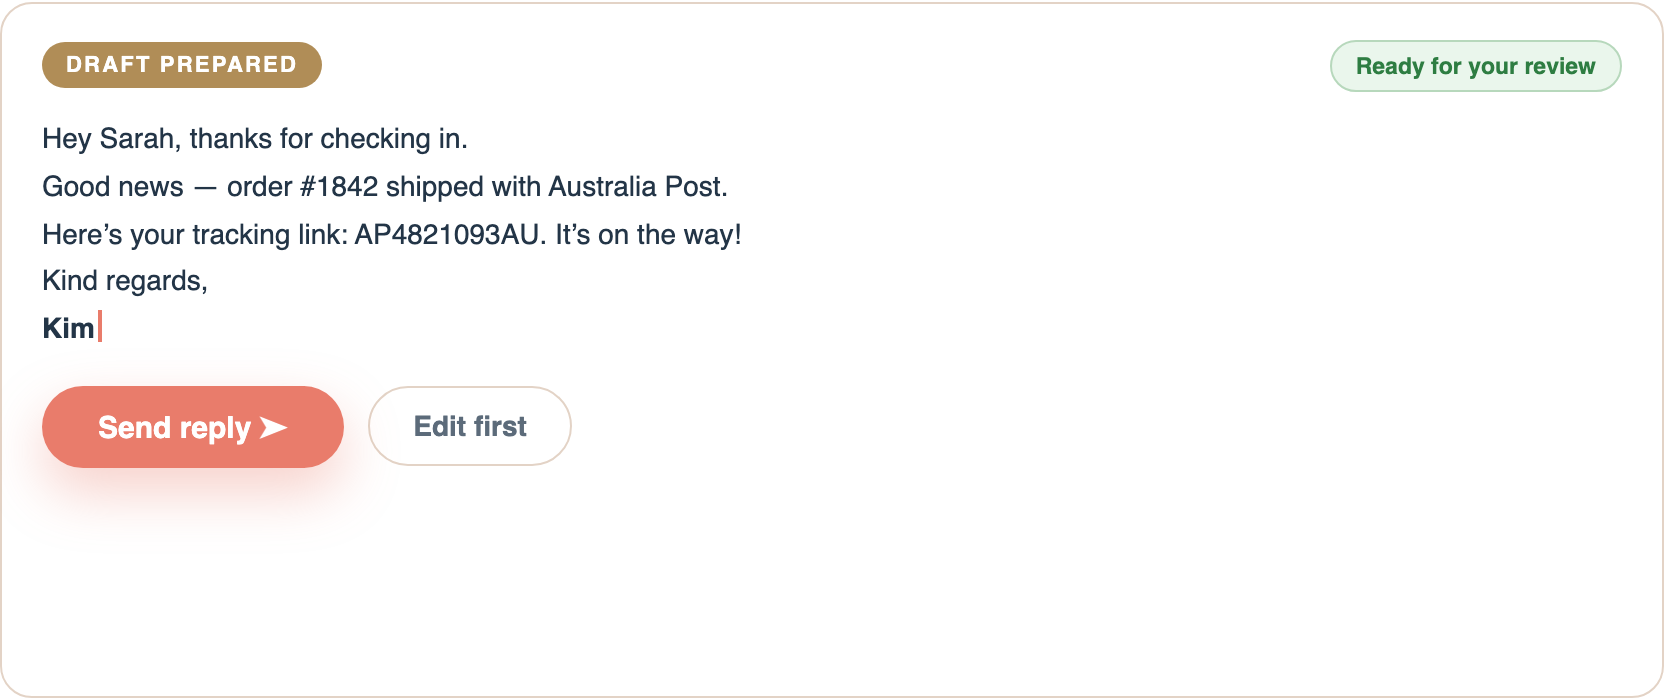
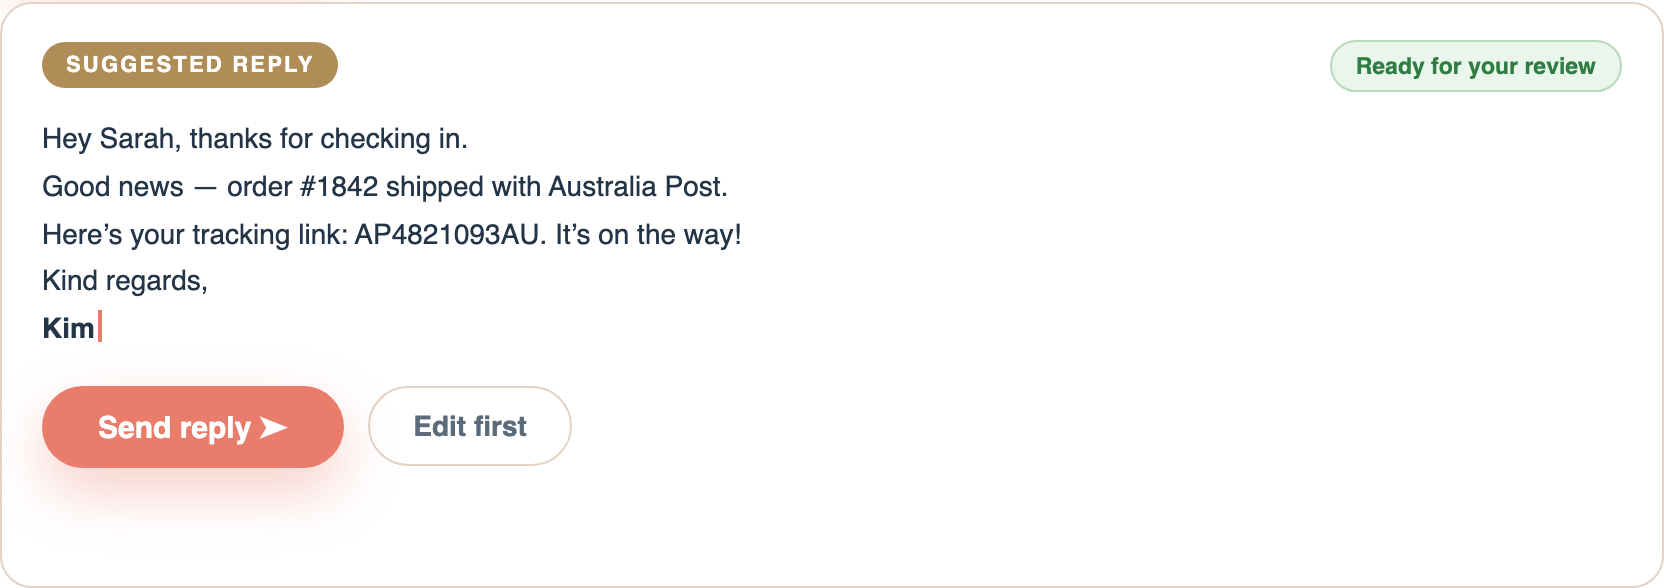
Show merchant-initiated Suggest reply step in hero loop video, step images, and copy

diff --git a/media-src/hero-loop/hero-loop.html b/media-src/hero-loop/hero-loop.html
@@ -187,6 +187,35 @@
   .spark { display: inline-block; animation: sparkle 1.6s ease-in-out infinite; }
   @keyframes sparkle { 0%,100% { transform: scale(1); } 50% { transform: scale(1.25); } }
 
+  /* Suggest reply button — the merchant's click */
+  .suggestwrap {
+    display: flex; align-items: center; gap: 12px;
+    opacity: 0;
+    animation: fadeUp 0.45s ease 2.9s forwards, fadeOutBtn 0.35s ease 4.0s forwards;
+  }
+  .suggestbtn {
+    display: inline-flex; align-items: center; gap: 9px;
+    font-size: 15px; font-weight: 800; color: #fff;
+    background: var(--coral);
+    border-radius: 999px;
+    padding: 12px 26px;
+    box-shadow: 0 12px 28px rgba(233,124,107,0.35);
+    animation: press 0.35s ease 3.55s;
+  }
+  .suggesthint {
+    font-size: 13px; font-weight: 700; color: var(--slate);
+  }
+  .cursor {
+    position: absolute;
+    width: 22px; height: 22px;
+    left: 118px; top: 0;
+    opacity: 0;
+    animation: cursorIn 0.7s ease 3.0s forwards, fadeOutBtn 0.3s ease 4.0s forwards;
+    z-index: 5;
+  }
+  @keyframes cursorIn { from { opacity: 0; transform: translate(60px, 50px); } to { opacity: 1; transform: translate(0, 0); } }
+  @keyframes fadeOutBtn { to { opacity: 0; visibility: hidden; height: 0; margin: 0; } }
+
   /* Draft card */
   .draftcard {
     flex: 1;
@@ -196,7 +225,7 @@
     padding: 18px 20px;
     position: relative;
     opacity: 0;
-    animation: fadeUp 0.5s ease 3.0s forwards;
+    animation: fadeUp 0.5s ease 4.3s forwards;
   }
   .drafthead { display: flex; align-items: center; justify-content: space-between; margin-bottom: 12px; }
   .draftbadge {
@@ -210,21 +239,21 @@
     border: 1px solid var(--green-line);
     padding: 5px 12px; border-radius: 999px;
     opacity: 0;
-    animation: fadeUp 0.4s ease 5.6s forwards;
+    animation: fadeUp 0.4s ease 7.3s forwards;
   }
 
   /* Typing text */
   .typeline { font-size: 14px; line-height: 1.7; color: var(--ink); overflow: hidden; white-space: nowrap; max-width: 0; }
-  .t1 { animation: typew 0.7s steps(30) 3.4s forwards; }
-  .t2 { animation: typew 1.1s steps(60) 4.1s forwards; }
-  .t3 { animation: typew 1.0s steps(55) 5.2s forwards; }
-  .typesign { font-size: 14px; line-height: 1.7; opacity: 0; animation: fadeUp 0.3s ease 5.9s forwards; }
+  .t1 { animation: typew 0.7s steps(30) 4.7s forwards; }
+  .t2 { animation: typew 1.1s steps(60) 5.4s forwards; }
+  .t3 { animation: typew 1.0s steps(55) 6.5s forwards; }
+  .typesign { font-size: 14px; line-height: 1.7; opacity: 0; animation: fadeUp 0.3s ease 7.2s forwards; }
   @keyframes typew { to { max-width: 100%; } }
 
   .caret {
     display: inline-block; width: 2px; height: 16px; background: var(--coral);
     vertical-align: -2px; margin-left: 2px;
-    animation: blink 0.7s step-end 3.4s 4, hide 0.1s linear 6.2s forwards;
+    animation: blink 0.7s step-end 4.7s 4, hide 0.1s linear 7.5s forwards;
   }
   @keyframes blink { 50% { opacity: 0; } }
   @keyframes hide { to { opacity: 0; } }
@@ -240,7 +269,7 @@
     box-shadow: 0 12px 28px rgba(233,124,107,0.35);
     position: relative;
     opacity: 0;
-    animation: fadeUp 0.4s ease 5.9s forwards, press 0.35s ease 6.9s;
+    animation: fadeUp 0.4s ease 7.5s forwards, press 0.35s ease 8.6s;
   }
   @keyframes press { 40% { transform: scale(0.94); } 100% { transform: scale(1); } }
   .editbtn {
@@ -248,7 +277,7 @@
     border: 1px solid var(--line2); border-radius: 999px;
     padding: 11px 22px; background: #fff;
     opacity: 0;
-    animation: fadeUp 0.4s ease 6.0s forwards;
+    animation: fadeUp 0.4s ease 7.6s forwards;
   }
 
   /* Sent confirmation overlay */
@@ -259,7 +288,7 @@
     border-radius: 16px;
     opacity: 0;
     pointer-events: none;
-    animation: fadeIn 0.35s ease 7.15s forwards;
+    animation: fadeIn 0.35s ease 8.95s forwards;
   }
   .senttick {
     width: 64px; height: 64px; border-radius: 50%;
@@ -269,7 +298,7 @@
   .senttick svg { stroke: var(--green); }
   .senttick svg path {
     stroke-dasharray: 30; stroke-dashoffset: 30;
-    animation: draw 0.45s ease 7.35s forwards;
+    animation: draw 0.45s ease 9.15s forwards;
   }
   @keyframes draw { to { stroke-dashoffset: 0; } }
   .sentmsg { font-size: 19px; font-weight: 800; }
@@ -360,9 +389,15 @@
           <div class="ordercell"><div class="k">Tracking</div><div class="v">AP4821093AU</div></div>
         </div>
 
+        <div class="suggestwrap" style="position:relative;">
+          <span class="suggestbtn">✦ Suggest reply</span>
+          <span class="suggesthint">You ask for the draft — it never writes without you</span>
+          <svg class="cursor" viewBox="0 0 24 24" fill="#233547" stroke="#fff" stroke-width="1.5"><path d="M5 3l14 8-6.5 1.5L9 19z"/></svg>
+        </div>
+
         <div class="draftcard">
           <div class="drafthead">
-            <span class="draftbadge">Draft prepared</span>
+            <span class="draftbadge">Suggested reply</span>
             <span class="readybadge">Ready for your review</span>
           </div>
           <div class="typeline t1">Hey Sarah, thanks for checking in.</div>

diff --git a/media-src/hero-loop/step-base.html b/media-src/hero-loop/step-base.html
@@ -187,6 +187,35 @@
   .spark { display: inline-block; opacity:1; }
   @keyframes sparkle { 0%,100% { transform: scale(1); } 50% { transform: scale(1.25); } }
 
+  /* Suggest reply button — the merchant's click */
+  .suggestwrap {
+    display: flex; align-items: center; gap: 12px;
+    opacity:1;
+    opacity:1;
+  }
+  .suggestbtn {
+    display: inline-flex; align-items: center; gap: 9px;
+    font-size: 15px; font-weight: 800; color: #fff;
+    background: var(--coral);
+    border-radius: 999px;
+    padding: 12px 26px;
+    box-shadow: 0 12px 28px rgba(233,124,107,0.35);
+    opacity:1;
+  }
+  .suggesthint {
+    font-size: 13px; font-weight: 700; color: var(--slate);
+  }
+  .cursor {
+    position: absolute;
+    width: 22px; height: 22px;
+    left: 118px; top: 0;
+    opacity:1;
+    opacity:1;
+    z-index: 5;
+  }
+  @keyframes cursorIn { from { opacity:1; transform: translate(60px, 50px); } to { opacity: 1; transform: translate(0, 0); } }
+  @keyframes fadeOutBtn { to { opacity:1; visibility: hidden; height: 0; margin: 0; } }
+
   /* Draft card */
   .draftcard {
     flex: 1;
@@ -360,9 +389,15 @@
           <div class="ordercell"><div class="k">Tracking</div><div class="v">AP4821093AU</div></div>
         </div>
 
+        <div class="suggestwrap" style="position:relative;">
+          <span class="suggestbtn">✦ Suggest reply</span>
+          <span class="suggesthint">You ask for the draft — it never writes without you</span>
+          <svg style="display:none" class="cursor" viewBox="0 0 24 24" fill="#233547" stroke="#fff" stroke-width="1.5"><path d="M5 3l14 8-6.5 1.5L9 19z"/></svg>
+        </div>
+
         <div class="draftcard">
           <div class="drafthead">
-            <span class="draftbadge">Draft prepared</span>
+            <span class="draftbadge">Suggested reply</span>
             <span class="readybadge">Ready for your review</span>
           </div>
           <div class="typeline t1">Hey Sarah, thanks for checking in.</div>

diff --git a/src/components/sections/Hero.tsx b/src/components/sections/Hero.tsx
@@ -5,10 +5,10 @@ import { SHOPIFY_APP_STORE_INSTALL_URL } from "@/lib/shopify-install";
 import Link from "next/link";
 
 const workflowPoints = [
-  "Triage the inbox",
-  "Pull Shopify context",
-  "Draft for review",
-  "You approve and send",
+  "Kim sorts the inbox",
+  "Order context attached",
+  "Click Suggest reply",
+  "You review and send",
 ];
 
 export default function Hero() {
@@ -18,14 +18,14 @@ export default function Hero() {
         <FadeIn className="mx-auto max-w-5xl text-center">
           <div className="mx-auto max-w-4xl pt-12 md:pt-28">
             <h1 className="mx-auto max-w-[22rem] font-display text-3xl font-extrabold leading-[1.08] tracking-normal text-ink sm:max-w-3xl sm:text-5xl md:text-7xl">
-              Your support inbox, already answered.
+              Your support inbox, answered in one click.
             </h1>
             <div className="mx-auto mt-6 flex flex-wrap items-center justify-center gap-3">
               <span className="inline-flex max-w-full items-center gap-2 rounded-full border border-[#E3D3C6] bg-white/80 px-4 py-2 text-xs font-bold uppercase tracking-[0.08em] text-[#8A6F61] shadow-sm backdrop-blur dark:border-slate/15 dark:bg-[#1D2840]/80 dark:text-brass"><ShopifyLogo className="h-5 w-5 shrink-0" /> Built for Shopify</span>
               <span className="inline-flex max-w-full items-center gap-2 rounded-full border border-[#E3D3C6] bg-white/80 px-4 py-2 text-xs font-bold uppercase tracking-[0.08em] text-[#8A6F61] shadow-sm backdrop-blur dark:border-slate/15 dark:bg-[#1D2840]/80 dark:text-brass"><GmailLogo className="h-4 w-4 shrink-0" /> Works with Gmail</span>
             </div>
             <p className="mx-auto mt-6 max-w-2xl text-base leading-8 text-slate md:text-xl">
-              Regards Kim reads every customer email, pulls the Shopify order, and writes the reply. You review and press send — from Gmail.
+              Regards Kim sorts every customer email and attaches the Shopify order. Click Suggest reply and the draft is written — you review, edit, and send from Gmail.
             </p>
 
             <div className="mt-8 flex flex-col items-center justify-center gap-3 sm:flex-row md:mt-10">

diff --git a/src/app/(marketing)/demo/page.tsx b/src/app/(marketing)/demo/page.tsx
@@ -28,11 +28,11 @@ const moments = [
   },
   {
     time: "0:04",
-    title: "The reply writes itself",
-    body: "A draft grounded in the real order — not a generic template. Real tracking number, real carrier, your tone.",
+    title: "You click Suggest reply",
+    body: "The draft only happens when you ask for it. One click, and Kim writes a reply grounded in the real order — real tracking number, real carrier, your tone.",
   },
   {
-    time: "0:07",
+    time: "0:08",
     title: "You press send",
     body: "Review it, tweak a word if you like, and send from Gmail. Nothing ever goes out without you.",
   },
@@ -49,8 +49,8 @@ export default function DemoPage() {
               Watch a support email answer itself.
             </h1>
             <p className="mx-auto mt-5 max-w-2xl text-base leading-8 text-slate md:text-lg">
-              This is the whole loop: a customer email arrives, Regards Kim matches the Shopify order and drafts the
-              reply, and you press send. About forty seconds of your day.
+              This is the whole loop: a customer email arrives, Regards Kim matches the Shopify order, you click
+              Suggest reply, and the draft is ready to send. About forty seconds of your day.
             </p>
           </FadeIn>
 

diff --git a/src/components/sections/HowItWorks.tsx b/src/components/sections/HowItWorks.tsx
@@ -22,10 +22,10 @@ const steps = [
   },
   {
     number: "03",
-    title: "The reply is already drafted",
-    body: "Grounded in the real order, not guesswork. Edit it, or just press send from Gmail. Your customers see your store, never us.",
+    title: "Click Suggest reply — the draft is written",
+    body: "One click, and Kim writes a reply grounded in the real order — not guesswork. It never drafts or sends anything without you asking. Edit it, or just press send from Gmail.",
     image: "/images/how-it-works/step-3-draft.png",
-    alt: "A drafted reply ready for review with the real tracking number, and Send reply and Edit first buttons",
+    alt: "A suggested reply generated after clicking Suggest reply, with the real tracking number, and Send reply and Edit first buttons",
     width: 1664,
     height: 698,
   },

diff --git a/src/app/(marketing)/page.tsx b/src/app/(marketing)/page.tsx
@@ -16,9 +16,9 @@ import { faqItems } from "@/lib/faq-data";
 import { marketingMetadata, absoluteUrl, siteConfig } from "@/lib/seo";
 
 export const metadata: Metadata = marketingMetadata({
-  title: "Regards Kim - Your Shopify Support Inbox, Already Answered",
+  title: "Regards Kim - Shopify Support Replies in One Click",
   description:
-    "Regards Kim reads every customer email, pulls the Shopify order context, and drafts the reply. You review and press send from Gmail. No auto-sending, ever.",
+    "Regards Kim sorts customer emails and attaches the Shopify order. Click Suggest reply for a draft grounded in real order data, then review and send from Gmail.",
   path: "/",
 });
 